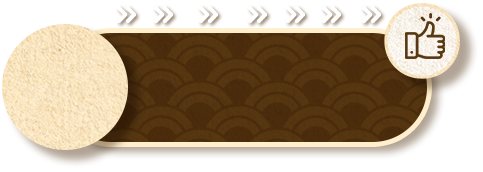
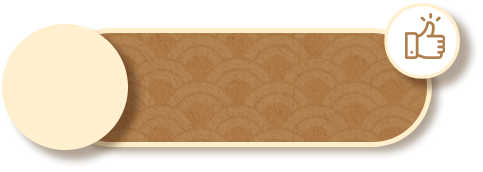
Changing layout and adding a new bar type

diff --git a/matcherino/progress-slide.html b/matcherino/progress-slide.html
@@ -38,7 +38,7 @@
         const interval = 10 // seconds
 
         const { useState, useEffect, useMemo } = React
-        const { styled, axios, antd } = window
+        const { styled, axios } = window
         const { keyframes } = styled
 
         const Wrapper = styled.div`
@@ -48,11 +48,19 @@
             height: 75px;
         `
 
+        const slide = keyframes`
+            0%, 100% { left: -483px; }
+            10%, 90% { left: 0; }
+        `
+
         const ProgressbarContainer = styled.div`
             position: absolute;
             width: 450px;
             height: 75px;
             background-image: url("assets/progressbar_background.png");
+            animation: ${slide} 10s forwards;
+            animation-direction: alternate;
+            animation-iteration-count: 1;
         `
 
         const TextArea = styled.div`
@@ -120,9 +128,7 @@
                 background-color: rgba(243, 235, 219, 0.55);
                 height: 100% !important;
             }
-
         `
-
 
         const Progressbar = ({ balance, goal, progress }) => {
             return (
@@ -144,6 +150,9 @@
             const matcherinoURL = `https://matcherino.com/__api`
 
             const [matcherino, setMatcherino] = useState({})
+            const [transactions, setTransactions] = useState([])
+            const [current, setCurrent] = useState(0)
+            const [transactionsById, setTransactionsById] = useState({})
 
             const [balance, setBalance] = useState(0)
             const [goal, setGoal] = useState(0)
@@ -158,6 +167,7 @@
             useEffect(() => {
                 const intervalFn = () => {
                     getMatcherino(campaign, ({ body }) => {
+                        setTransactions(body.transactions)
                         setBalance(body.balance)
                         setGoal(body.meta.goal)
                     })
@@ -170,6 +180,22 @@
             }, [])
 
             useEffect(() => {
+                if (transactions.length) {
+                    setTransactionsById(Object.fromEntries(transactions.map(t => [t.id, t])))
+
+                    if (current === 0) {
+                        setCurrent(transactions[0].id)
+                    } else {
+                        const queue = transactions.map(({ id }) => id)
+                        let index = queue.indexOf(current)
+
+                        if (index !== 0) setCurrent(queue[index - 1])
+                    }
+
+                }
+            }, [transactions])
+
+            useEffect(() => {
                 if (goal !== 0) {
                     const progress = (balance / goal) * 100
                     setProgress(progress)
@@ -178,11 +204,13 @@
 
             return (
                 <Wrapper>
-                    <Progressbar
-                        balance={balance}
-                        goal={goal}
-                        progress={progress}
-                    />
+                    {transactionsById[current] && (
+                        <Progressbar
+                            balance={balance}
+                            goal={goal}
+                            progress={progress}
+                        />
+                    )}
                 </Wrapper>
             )
         }

diff --git a/matcherino/progress-fade.html b/matcherino/progress-fade.html
@@ -79,18 +79,19 @@
         `
 
         const Dollar = styled.div`
-            font-size: 18px;
+            font-size: 22px;
         `
 
         const Cents = styled.div`
             display: flex;
             align-items: center;
-            font-size: 10px;
+            font-size: 16px;
             margin-top: 3px;
         `
 
         const Balance = styled.div`
             display: flex;
+            margin-top: 16px;
             justify-content: center;
             align-items: baseline;
         `
@@ -104,7 +105,7 @@
 
         const Indicator = styled.div`
             position: absolute;
-            top: 0.5px;
+            top: -1px;
             left: ${({ percent }) => (percent / 100) * 315}px;
             width: 76px;
             height: 74px;
@@ -114,25 +115,20 @@
         const CustomProgressbar = styled(antd.Progress)`
             position: absolute;
             top: 4px;
-            left: 29px;
-            width: 325px;
+            left: 31px;
+            width: 322px;
 
             .ant-progress-inner {
                 border-radius: 0px;
-                height: 59px;
+                height: 58px;
                 background-color: transparent;
             }
 
             .ant-progress-bg, .ant-progress-success-bg {
                 border-radius: 0px;
-                background-color: rgba(173, 155, 120, 0.75);
+                background-color: rgba(243, 235, 219, 0.55);
                 height: 100% !important;
             }
-
-            .ant-progress-bg, .ant-progress-success-bg:after {
-                content: ;
-            }
-
         `
 
         const Progressbar = ({ balance, goal, progress }) => {
@@ -145,7 +141,6 @@
                             <Sign>$</Sign>
                             <Dollar>{parseInt(balance / 100)}</Dollar>,<Cents>{(balance % 100)}</Cents>
                         </Balance>
-                        <Progress>({progress.toFixed(0)}%)</Progress>
                     </TextArea>
                 </ProgressbarContainer>
             )

diff --git a/README.md b/README.md
@@ -12,9 +12,13 @@ Edit the file and replace the `campaign` value with the shortlink name of your e
 const campaign = "pog97";
 ```
 
+### Slide ProgressBar
+
+`matcherino/progress-slide.html`
+
 ### Faded ProgressBar
 
-`matcherino/progress-only-on-donates.html`
+`matcherino/progress-fade.html`
 
 ![](assets/matcherino-progressbar-fade.gif)
 
